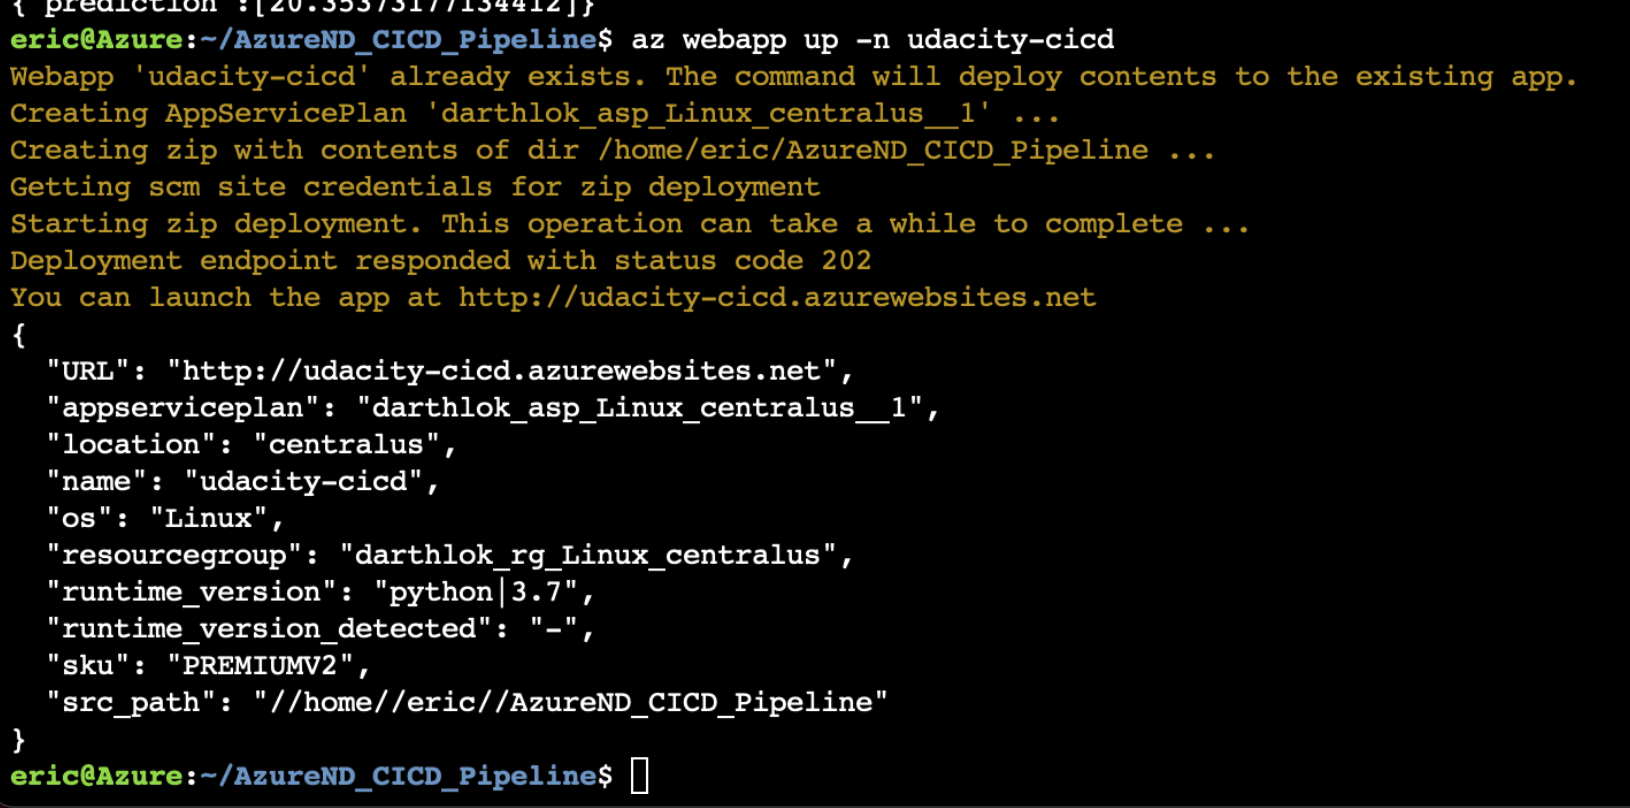
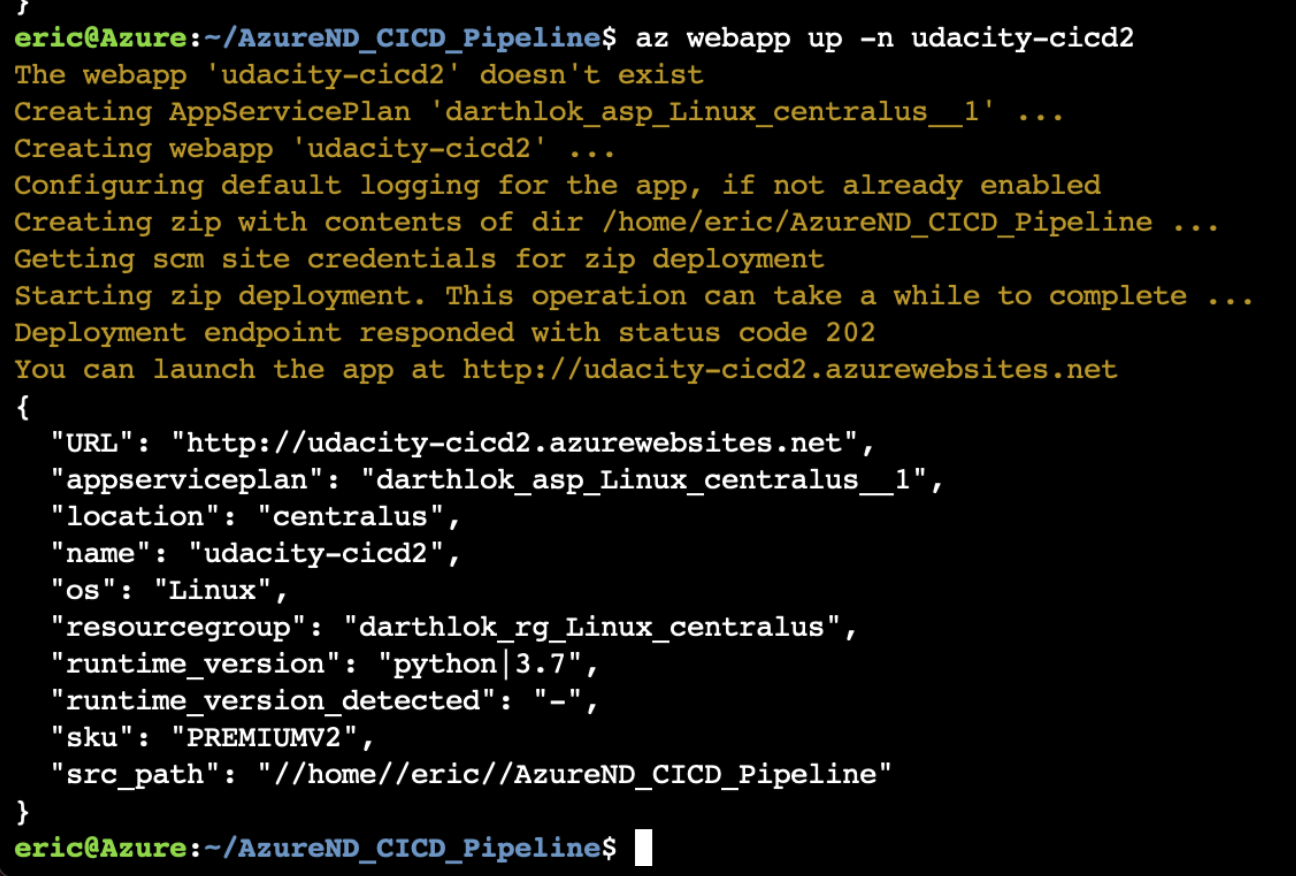
adding locust and screenshots

Changed region(s): [[0.0, 0.0, 0.9568, 0.8973], [0.0, 0.8973, 1.0, 1.0]]

diff --git a/locustfile.py b/locustfile.py
@@ -1,0 +1,32 @@
+import random
+from locust import HttpUser, task, between
+
+class QuickstartUser(HttpUser):
+    wait_time = between(5, 10)
+
+    @task
+    def index(self):
+        self.client.get("/")
+
+    @task(3)
+    def checkPredict(self):
+        self.client.post("/predict", json={
+            "CHAS":{
+                "0":0
+            },
+            "RM":{
+                "0":6.575
+            },
+            "TAX":{
+                "0":296.0
+            },
+            "PTRATIO":{
+                "0":15.3
+            },
+            "B":{
+                "0":396.9
+            },
+            "LSTAT":{
+                "0":4.98
+            }
+        })
